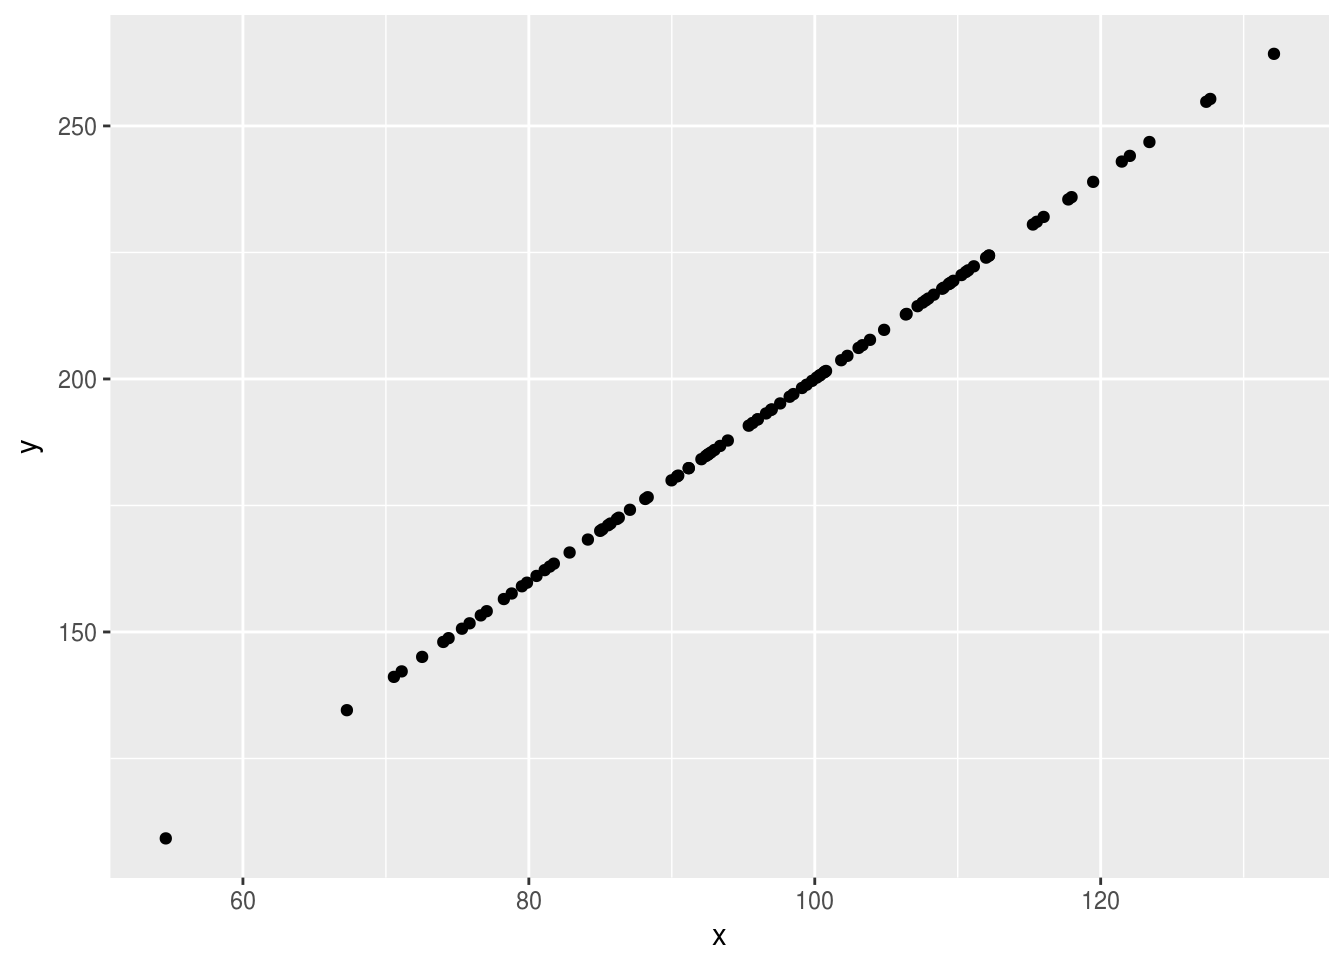
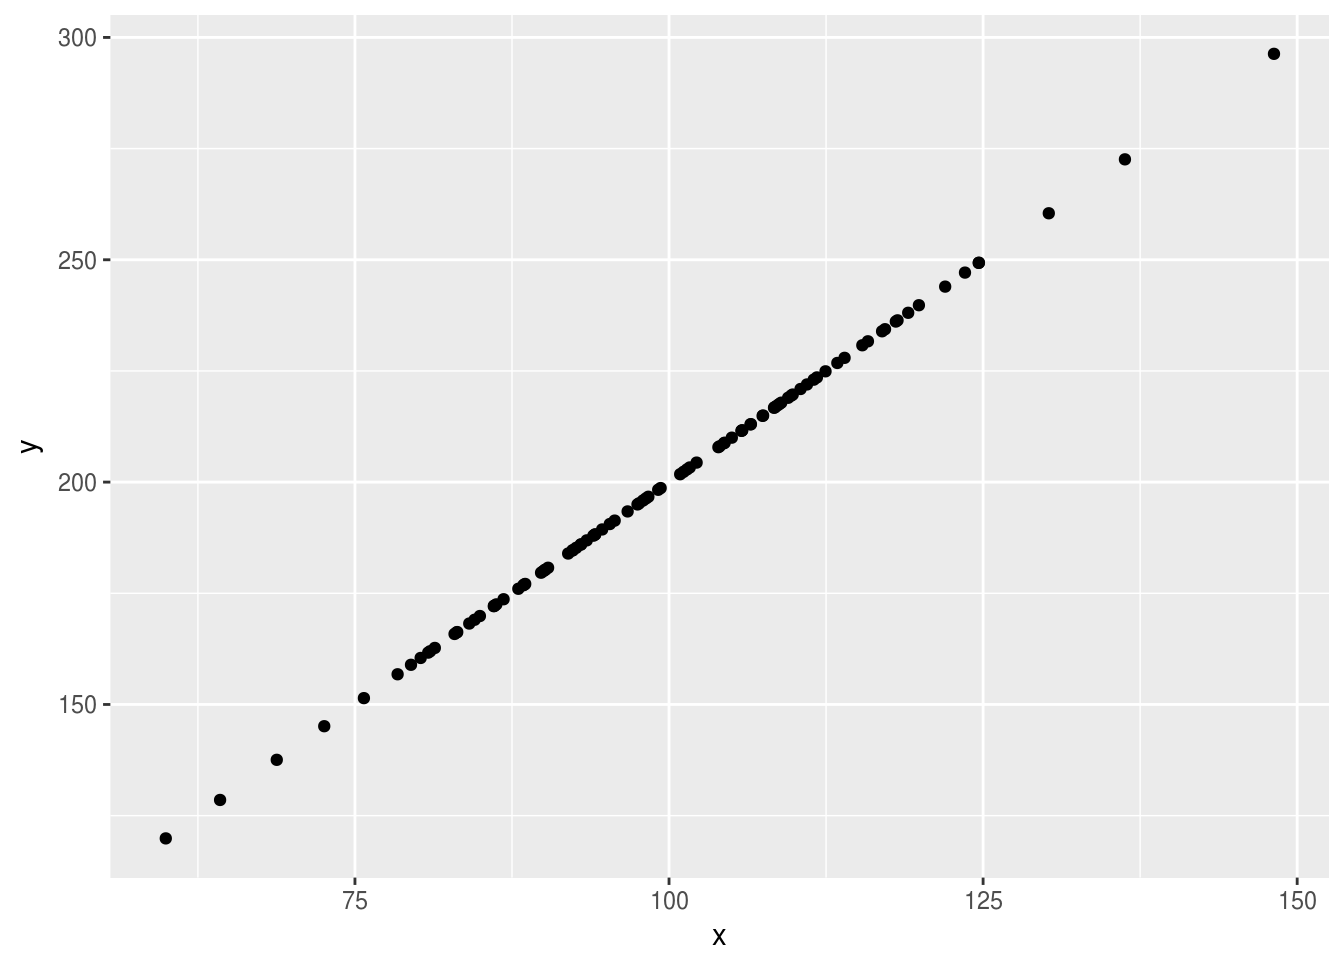
more website updates

diff --git a/docs/articles/using-rstansim.html b/docs/articles/using-rstansim.html
@@ -280,8 +280,8 @@ correlated_data &lt;-<span class="st"> </span><span class="kw"><a href="../refer
 ## List of 4
 ##  $ N: num 1000
 ##  $ K: num 5
-##  $ x: num [1:1000, 1:5] 1.862 0.266 0.622 0.537 -1.712 ...
-##  $ y: num [1:1000(1d)] 4.02 3.75 7.41 5.63 7.62 ...</code></pre></div>
+##  $ x: num [1:1000, 1:5] -1.389 -0.526 2.204 -0.6 -0.492 ...
+##  $ y: num [1:1000(1d)] 6.42 3.85 7.21 2.33 2.22 ...</code></pre></div>
 </div>
 <div id="fitting-the-models" class="section level2">
 <h2 class="hasAnchor">
@@ -295,23 +295,23 @@ test_data &lt;-<span class="st"> </span><span class="kw">readRDS</span>(<span cl
 test_fit &lt;-<span class="st"> </span>rstan<span class="op">::</span><span class="kw"><a href="http://www.rdocumentation.org/packages/rstan/topics/stan">stan</a></span>(<span class="dt">file =</span> <span class="st">"simple_reg_model.stan"</span>, <span class="dt">data =</span> test_data)</code></pre></div>
 <div class="sourceCode"><pre class="sourceCode r"><code class="sourceCode r">rstan<span class="op">::</span><span class="kw">summary</span>(test_fit)<span class="op">$</span>summary
 ##                  mean      se_mean         sd          2.5%           25%
-## alpha      4.99489977 0.0005395435 0.03412373    4.92920567  4.971334e+00
-## beta[1]   -0.01952893 0.0005124118 0.03240777   -0.08377418 -4.129069e-02
-## beta[2]    0.02026169 0.0004922474 0.03113246   -0.04135261 -6.590125e-04
-## beta[3]    0.81678169 0.0005248994 0.03319755    0.75154412  7.946678e-01
-## beta[4]    0.65404834 0.0005176178 0.03273702    0.58873181  6.324120e-01
-## beta[5]    0.33323066 0.0005242772 0.03315820    0.26927704  3.111978e-01
-## sigma      1.01571925 0.0003782558 0.02392300    0.97081393  9.987825e-01
-## lp__    -514.72602050 0.0430250965 1.97524670 -519.43564845 -5.158141e+02
+## alpha      5.00601434 0.0005282804 0.03341139    4.94020981    4.98385816
+## beta[1]   -0.03888132 0.0005270244 0.03333195   -0.10369519   -0.06090930
+## beta[2]    0.03296958 0.0005469483 0.03459205   -0.03515237    0.01045293
+## beta[3]    0.76936161 0.0005343863 0.03379756    0.70333149    0.74654366
+## beta[4]    0.62802669 0.0005306335 0.03356021    0.56237368    0.60510948
+## beta[5]    0.37201540 0.0004953638 0.03132956    0.31096595    0.35097621
+## sigma      1.03995493 0.0003764898 0.02381131    0.99421059    1.02415660
+## lp__    -538.31700544 0.0443023507 1.90832524 -542.89533579 -539.37013689
 ##                   50%           75%         97.5%    n_eff      Rhat
-## alpha      4.99453158  5.018427e+00    5.06124332 4000.000 0.9996185
-## beta[1]   -0.01935526  1.831165e-03    0.04506135 4000.000 0.9997551
-## beta[2]    0.01971286  4.263707e-02    0.07910599 4000.000 0.9999570
-## beta[3]    0.81681151  8.390760e-01    0.88140469 4000.000 0.9996494
-## beta[4]    0.65417415  6.753296e-01    0.71971028 4000.000 0.9998779
-## beta[5]    0.33356382  3.559752e-01    0.39783862 4000.000 0.9996908
-## sigma      1.01532359  1.032192e+00    1.06288225 4000.000 0.9996206
-## lp__    -514.37873713 -5.132996e+02 -511.93078856 2107.652 1.0020570</code></pre></div>
+## alpha      5.00601500    5.02810297    5.07198972 4000.000 1.0006579
+## beta[1]   -0.03887950   -0.01637562    0.02730051 4000.000 0.9997743
+## beta[2]    0.03273199    0.05595503    0.10210900 4000.000 0.9997182
+## beta[3]    0.76937357    0.79307286    0.83420816 4000.000 0.9995712
+## beta[4]    0.62768280    0.65067931    0.69484337 4000.000 0.9995181
+## beta[5]    0.37232879    0.39283894    0.43330737 4000.000 0.9997796
+## sigma      1.03950051    1.05526633    1.08835623 4000.000 0.9993036
+## lp__    -537.99069651 -536.88020622 -535.55828379 1855.459 1.0023033</code></pre></div>
 <p>These values are all in the region we’d expect. The <code><a href="../reference/fit_models.html">fit_models()</a></code> function is used to fit a given stan model to multiple datasets, we can use the <code>stansim_data</code> object produced above as input pointing to our simulated datasets. Our study questions has a 2x2 design so fit_models needs called 4 times.</p>
 <div class="sourceCode"><pre class="sourceCode r"><code class="sourceCode r">
 <span class="co"># fit simple model to uncorrelated data</span>

diff --git a/docs/articles/managing-results.html b/docs/articles/managing-results.html
@@ -112,6 +112,21 @@
 <div id="extracting-relevant-data" class="section level2">
 <h2 class="hasAnchor">
 <a href="#extracting-relevant-data" class="anchor"></a>Extracting relevant data</h2>
+<p>Once data is collected into a single object it is then best extracted using the packages built in functions, all prefixed with <code>extract_</code>. These functions currently include:</p>
+<ul>
+<li>
+<code><a href="../reference/extract_data.html">extract_data()</a></code>: Returns all parameter estimates from fitted models.</li>
+<li>
+<code><a href="../reference/extract_refitted.html">extract_refitted()</a></code>: Returns all models that have been refitted using the <code><a href="../reference/refit.html">refit()</a></code> function since the initial <code><a href="../reference/fit_models.html">fit_models()</a></code> call.</li>
+<li>
+<code><a href="../reference/extract_time_elapsed.html">extract_time_elapsed()</a></code>: Returns information on the time taken to fit all models.</li>
+</ul>
+<p>Any other stored data can be extracted manually, but this process can be quite involved due to the deep structure of the <code>stansim_simulation</code> and <code>stansim_collection</code> objects.</p>
+</div>
+<div id="renaming-objects" class="section level2">
+<h2 class="hasAnchor">
+<a href="#renaming-objects" class="anchor"></a>Renaming objects</h2>
+<p>In order that all simulation data is clear and understandable it’s important that informative object names are set. If for whatever reason they’re not set when initially constructed both <code>stansim_simulation</code> and <code>stansim_collection</code> objects can have their names reset by the <code><a href="../reference/rename.html">rename()</a></code> function.</p>
 </div>
 </div>
   </div>
@@ -123,6 +138,7 @@
       <ul class="nav nav-pills nav-stacked">
 <li><a href="#managing-multiple-simulation-objects">Managing multiple simulation objects</a></li>
       <li><a href="#extracting-relevant-data">Extracting relevant data</a></li>
+      <li><a href="#renaming-objects">Renaming objects</a></li>
       </ul>
 </div>
       </div>

diff --git a/docs/articles/simulating_data.html b/docs/articles/simulating_data.html
@@ -188,8 +188,8 @@ small_simulation &lt;-<span class="st"> </span><span class="kw"><a href="../refe
 example_data &lt;-<span class="st"> </span><span class="kw">readRDS</span>(<span class="st">"sim_data/small_sim_example_1.rds"</span>)
 <span class="kw">str</span>(example_data)
 ## List of 2
-##  $ x: num [1:100(1d)] 96 98.2 81.7 112.2 127.7 ...
-##  $ y: num [1:100(1d)] 192 196 163 224 255 ...
+##  $ x: num [1:100(1d)] 118.2 80.8 93 113.4 95.3 ...
+##  $ y: num [1:100(1d)] 236 162 186 227 191 ...
 
 <span class="kw">library</span>(ggplot2)
 <span class="kw"><a href="http://www.rdocumentation.org/packages/ggplot2/topics/ggplot">ggplot</a></span>(<span class="kw">as.data.frame</span>(example_data), <span class="kw"><a href="http://www.rdocumentation.org/packages/ggplot2/topics/aes">aes</a></span>(<span class="dt">x =</span> x, <span class="dt">y =</span> y)) <span class="op">+</span><span class="st"> </span>
